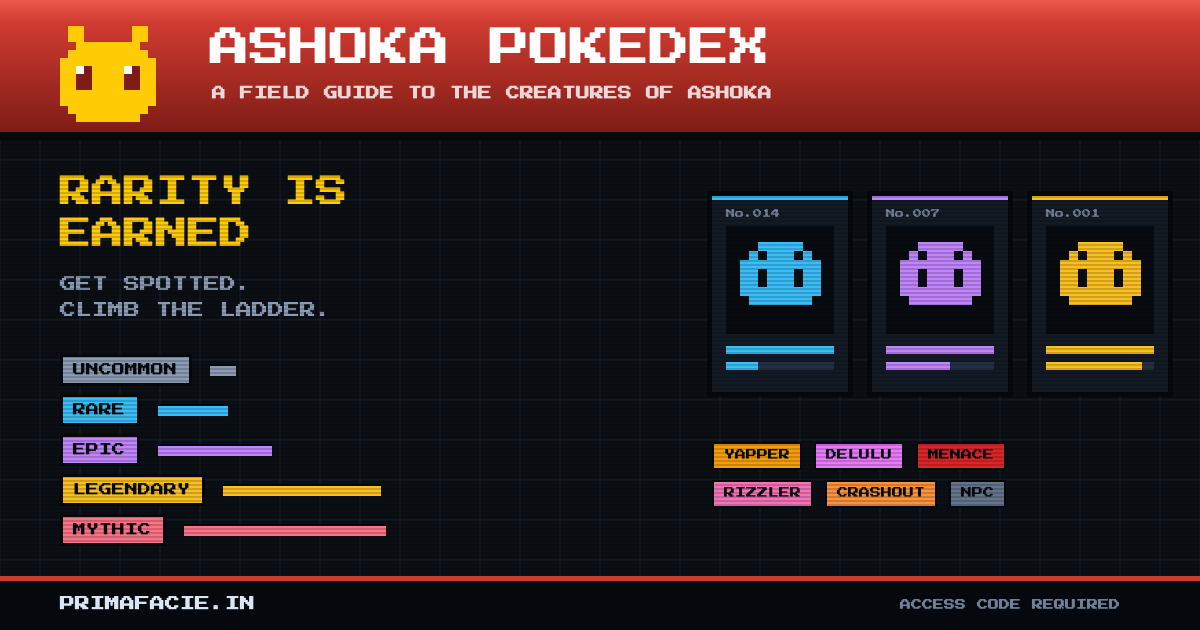
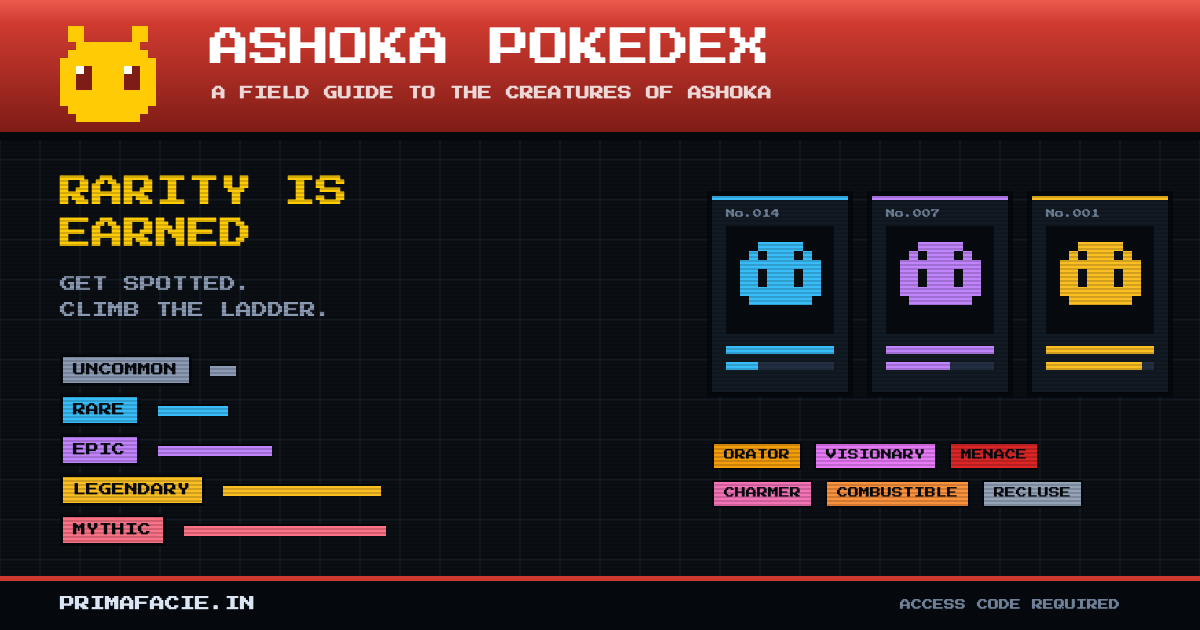
Rewrite types as archetypes instead of slang
Same note as the stats: the label was doing the joke, badly. Types are now
ORATOR / RECLUSE / ATHLETE / ROMANTIC / SCHOLAR / VISIONARY / PROTAGONIST /
BYSTANDER / CHARMER / NOCTURNAL / CAFFEINATED / MENACE / OVERCOMMITTED /
FREELOADER / COMBUSTIBLE / NATURALIST, and the humour moved into the
descriptions where it reads better — VISIONARY is 'The plan is not going to
work', FREELOADER is 'Added their name to the slides on Sunday night'.

Share image regenerated with the new typing.

Changed region(s): [[0.6783, 0.6937, 0.925, 0.8143], [0.6167, 0.754, 0.6475, 0.7841], [0.6167, 0.6937, 0.6475, 0.7238]]

diff --git a/src/lib/constants.ts b/src/lib/constants.ts
@@ -53,65 +53,68 @@ export const RARITY_FLAVOUR: Record<Rarity, string> = {
 /*  Types — personality, not geography                                         */
 /* -------------------------------------------------------------------------- */
 
-/** Where someone hangs out is the HABITAT. Type is what they *are*. */
+/**
+ * Where someone hangs out is the HABITAT. Type is what they *are* — archetypes,
+ * not slang. The joke should be in the description, not the label.
+ */
 export const TYPES = [
-  "YAPPER",
-  "GHOST",
-  "GYMBRO",
-  "SITUATIONSHIP",
-  "ACAD WEAPON",
-  "DELULU",
-  "MAIN CHARACTER",
-  "NPC",
-  "RIZZLER",
+  "ORATOR",
+  "RECLUSE",
+  "ATHLETE",
+  "ROMANTIC",
+  "SCHOLAR",
+  "VISIONARY",
+  "PROTAGONIST",
+  "BYSTANDER",
+  "CHARMER",
   "NOCTURNAL",
   "CAFFEINATED",
   "MENACE",
   "OVERCOMMITTED",
   "FREELOADER",
-  "CRASHOUT",
-  "GRASS-TOUCHER",
+  "COMBUSTIBLE",
+  "NATURALIST",
 ] as const;
 
 export type CreatureType = (typeof TYPES)[number];
 
 export const TYPE_COLOR: Record<CreatureType, string> = {
-  YAPPER: "#f59e0b",
-  GHOST: "#94a3b8",
-  GYMBRO: "#ef4444",
-  SITUATIONSHIP: "#fb7185",
-  "ACAD WEAPON": "#7c9cff",
-  DELULU: "#e879f9",
-  "MAIN CHARACTER": "#fbbf24",
-  NPC: "#64748b",
-  RIZZLER: "#f472b6",
+  ORATOR: "#f59e0b",
+  RECLUSE: "#94a3b8",
+  ATHLETE: "#ef4444",
+  ROMANTIC: "#fb7185",
+  SCHOLAR: "#7c9cff",
+  VISIONARY: "#e879f9",
+  PROTAGONIST: "#fbbf24",
+  BYSTANDER: "#64748b",
+  CHARMER: "#f472b6",
   NOCTURNAL: "#6366f1",
   CAFFEINATED: "#a16207",
   MENACE: "#dc2626",
   OVERCOMMITTED: "#2dd4bf",
   FREELOADER: "#84cc16",
-  CRASHOUT: "#fb923c",
-  "GRASS-TOUCHER": "#22c55e",
+  COMBUSTIBLE: "#fb923c",
+  NATURALIST: "#22c55e",
 };
 
-/** One-liners shown while picking, so the types stay legible to everyone. */
+/** One-liners shown while picking. This is where the humour lives. */
 export const TYPE_HINT: Record<CreatureType, string> = {
-  YAPPER: "Has never finished a story.",
-  GHOST: "Left you on read in 2024.",
-  GYMBRO: "Rest day is a myth.",
-  SITUATIONSHIP: "It's complicated, allegedly.",
-  "ACAD WEAPON": "Ruins the curve on purpose.",
-  DELULU: "The plan is not going to work.",
-  "MAIN CHARACTER": "Walks like there's a soundtrack.",
-  NPC: "Same four sentences, every time.",
-  RIZZLER: "Unreasonably smooth.",
-  NOCTURNAL: "Peaks at 3am.",
-  CAFFEINATED: "Vibrating slightly.",
-  MENACE: "Banned from at least one group chat.",
-  OVERCOMMITTED: "In nine societies, present in none.",
-  FREELOADER: "Added their name to the slides.",
-  CRASHOUT: "One bad email from detonating.",
-  "GRASS-TOUCHER": "Genuinely goes outside.",
+  ORATOR: "Has never once finished a story.",
+  RECLUSE: "Last confirmed sighting was in March.",
+  ATHLETE: "Treats the rest day as theoretical.",
+  ROMANTIC: "It is, allegedly, complicated.",
+  SCHOLAR: "Ruins the curve and apologises for it.",
+  VISIONARY: "The plan is not going to work.",
+  PROTAGONIST: "Walks like there is a soundtrack.",
+  BYSTANDER: "Same four sentences, every time.",
+  CHARMER: "Talks their way out of everything.",
+  NOCTURNAL: "Comes alive at 3am, useless by noon.",
+  CAFFEINATED: "Vibrating slightly, at all times.",
+  MENACE: "Removed from at least one group chat.",
+  OVERCOMMITTED: "In nine societies, present at none.",
+  FREELOADER: "Added their name to the slides on Sunday night.",
+  COMBUSTIBLE: "One badly worded email from detonating.",
+  NATURALIST: "Astonishingly, goes outside.",
 };
 
 /* -------------------------------------------------------------------------- */
